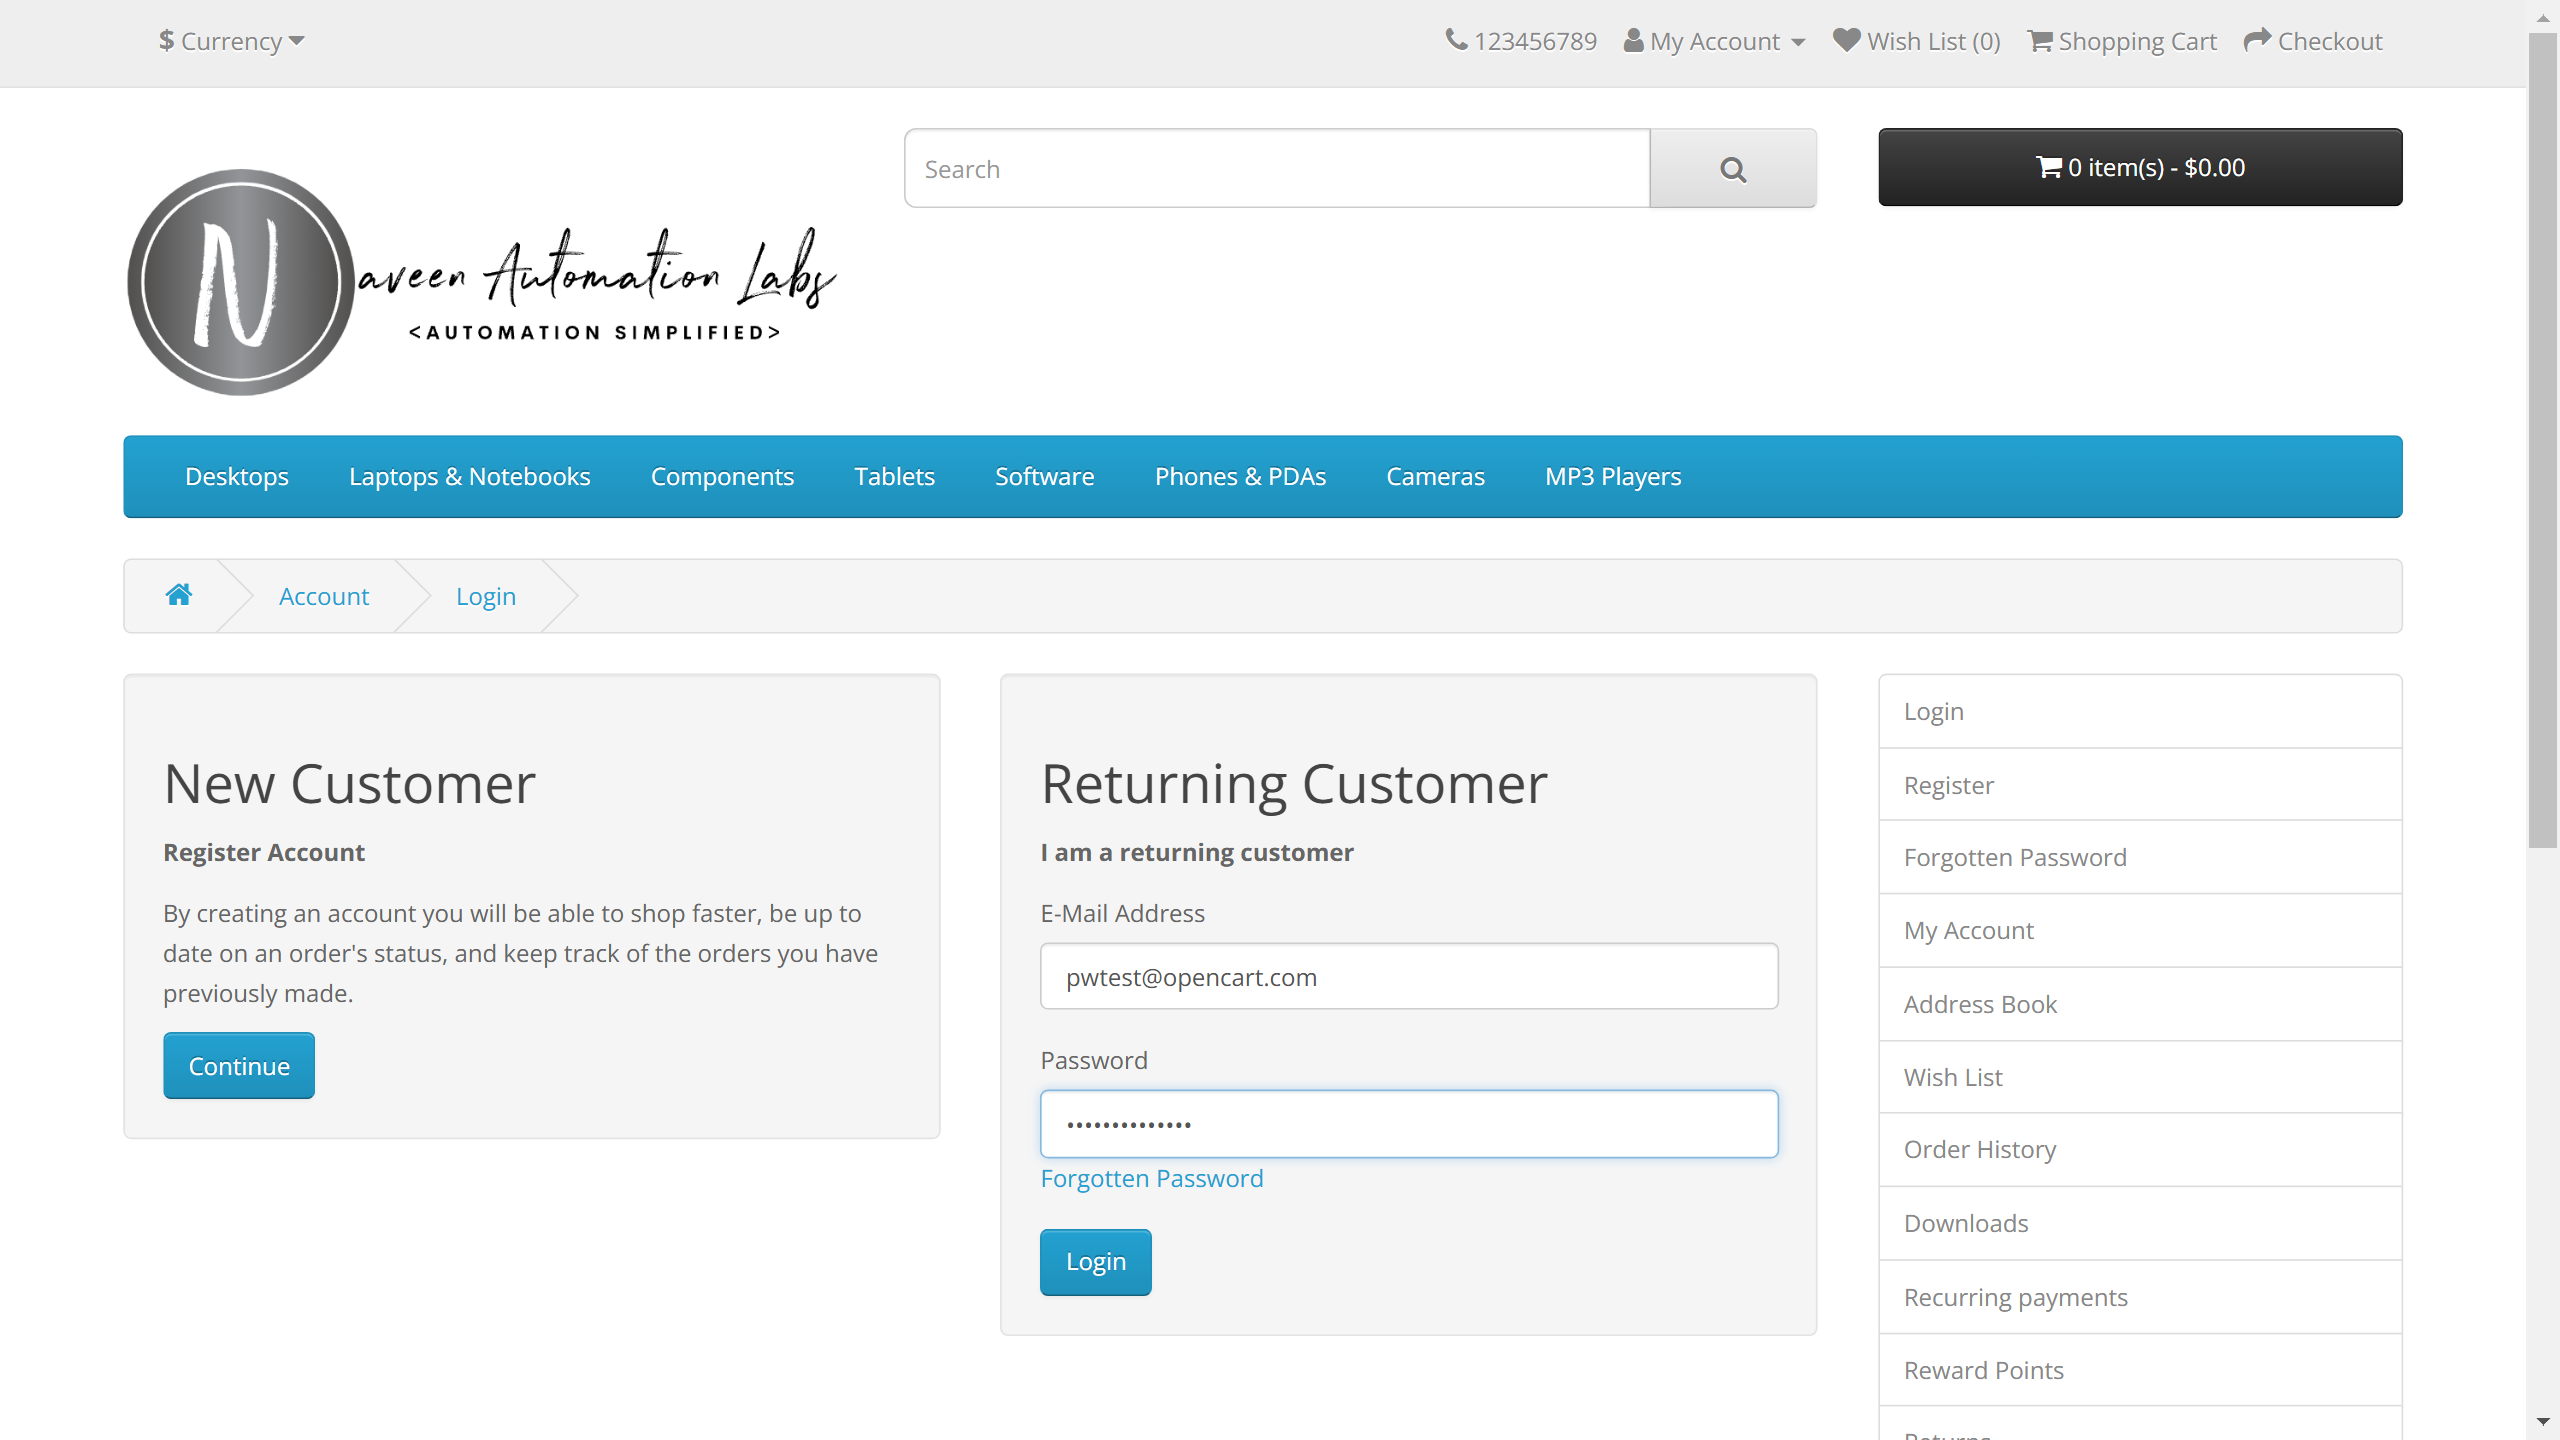
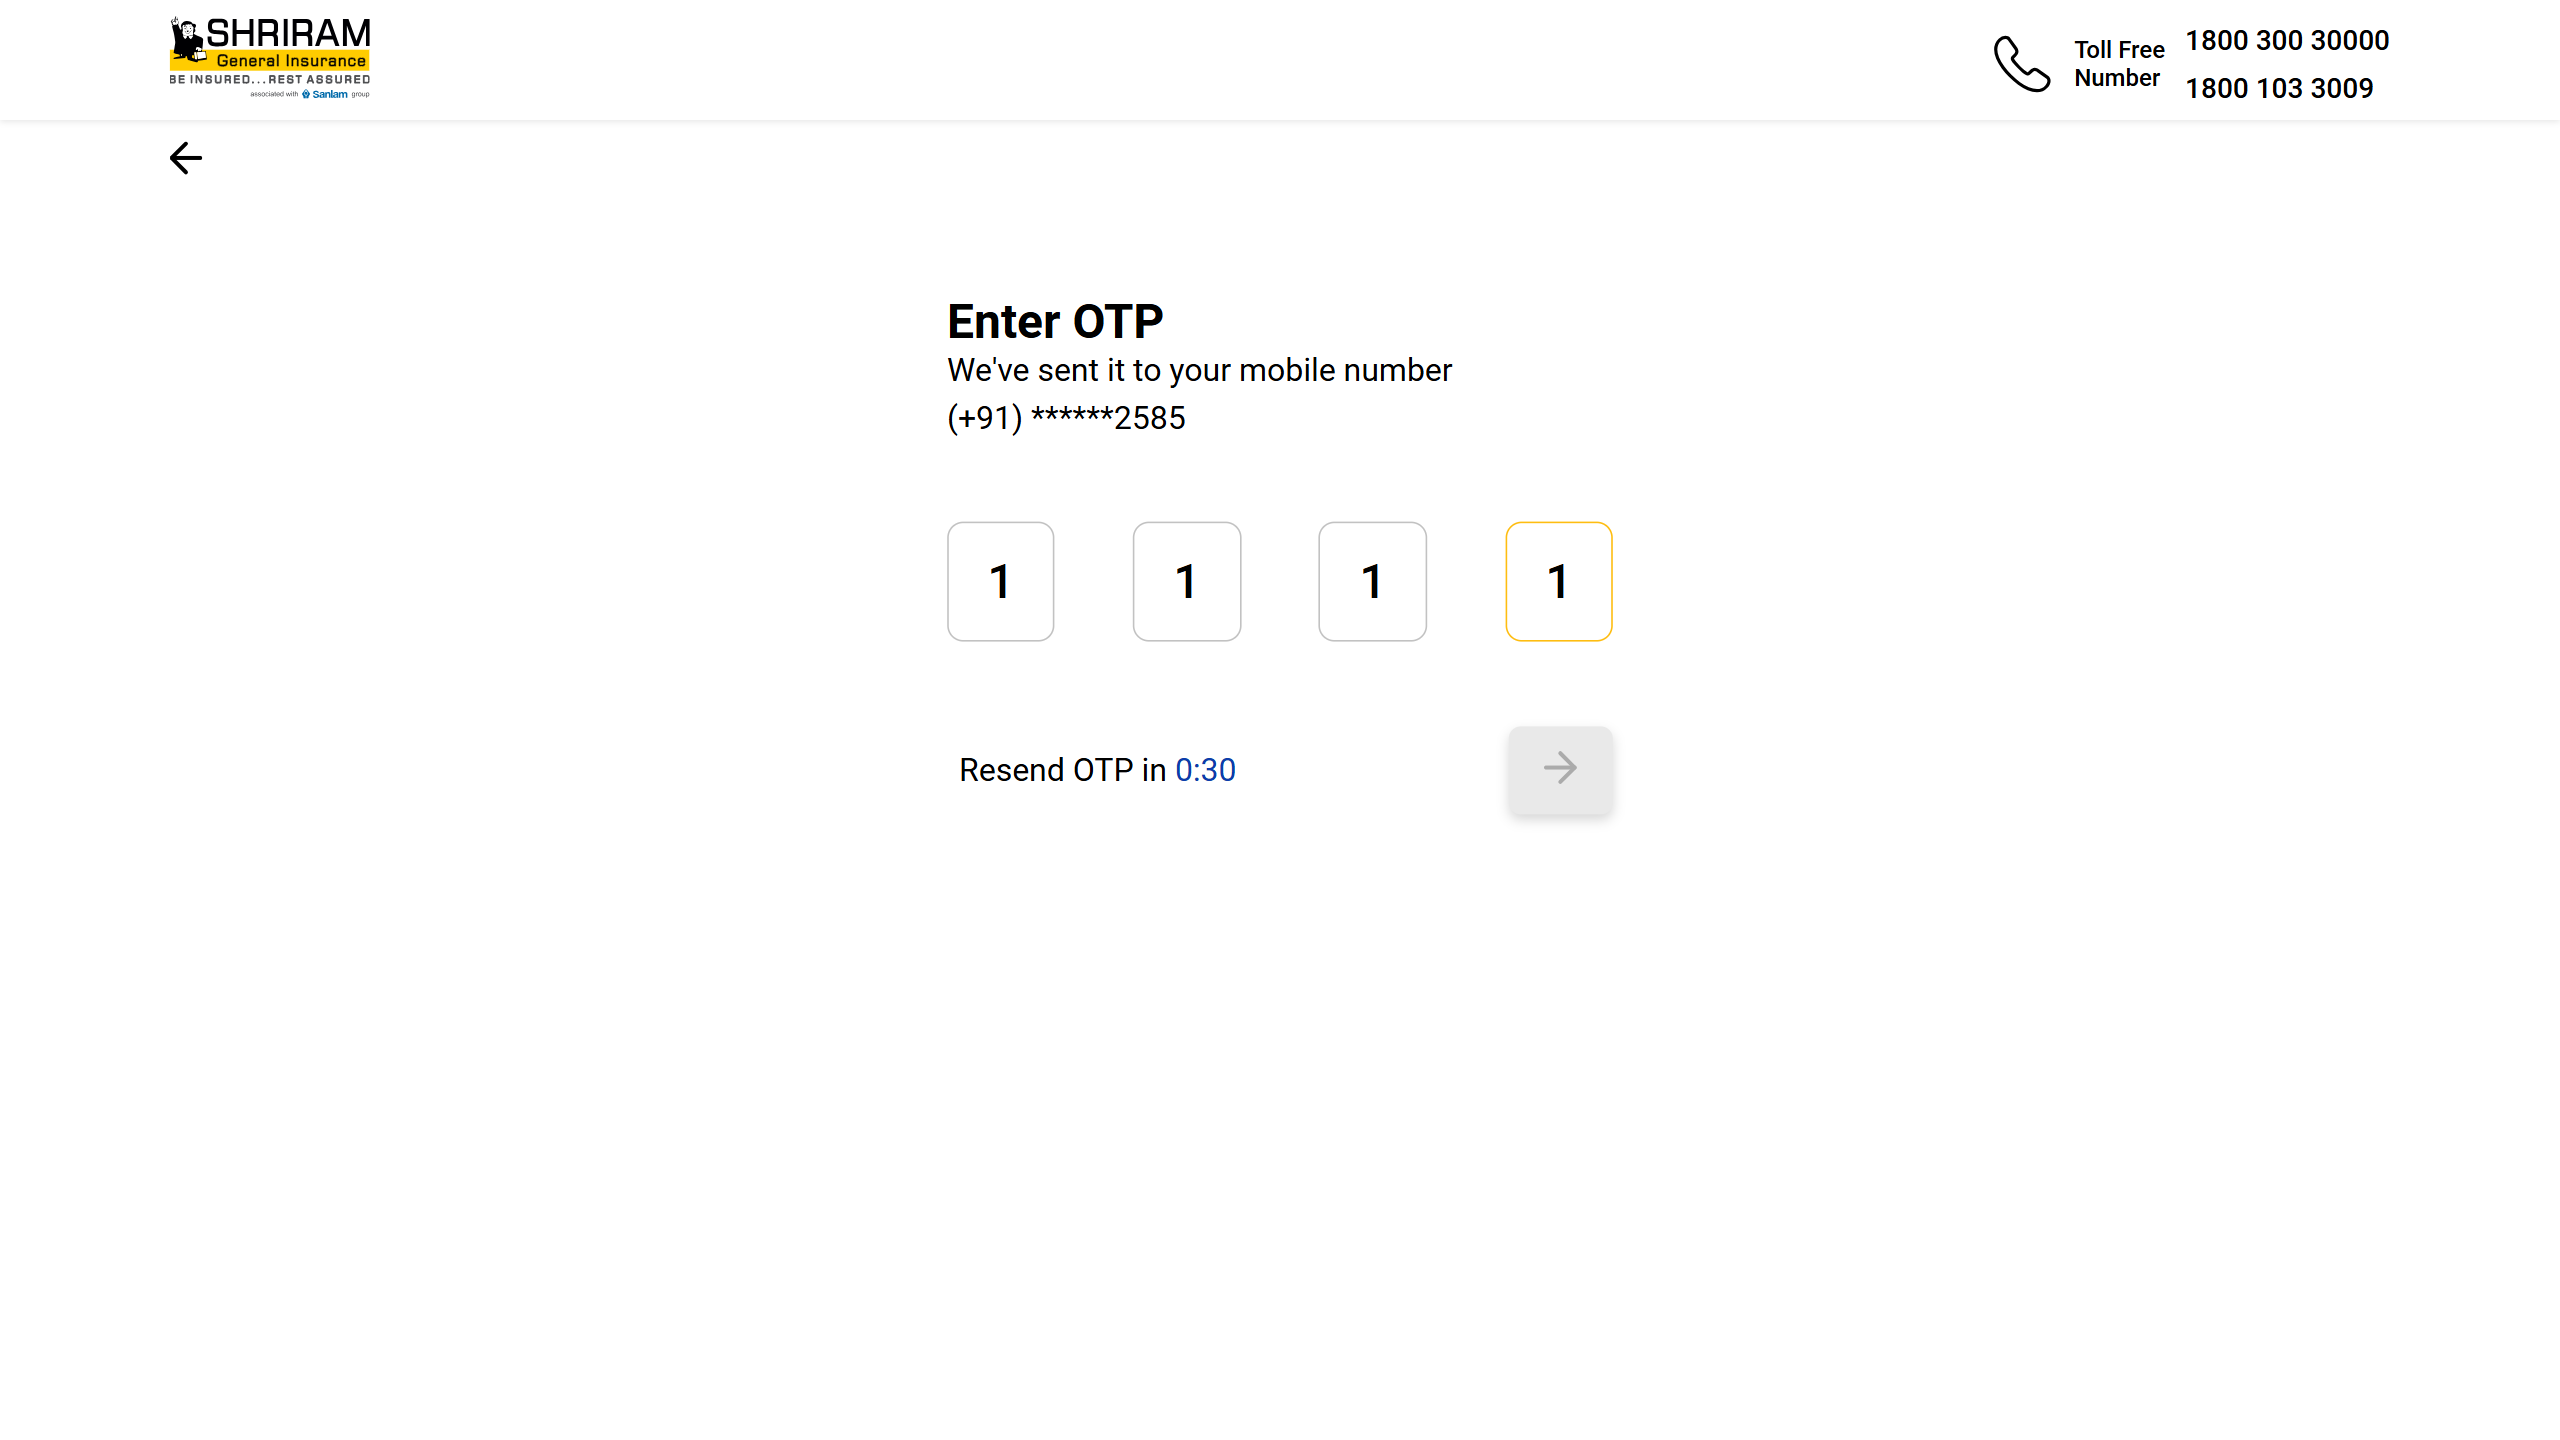
Updated July 21st

diff --git a/mytest/Dropdown.spec.ts b/mytest/Dropdown.spec.ts
@@ -2,44 +2,48 @@
 
 
 import {test, expect, Browser, Page, Locator} from '@playwright/test'
-import {log} from 'console';
 import {webkit, chromium, firefox} from 'playwright'
 
 
-test('Dropdown test', async() => {
+test('Static Dropdown test', async() => {
     const browser:Browser = await chromium.launch({headless: false});
     const page:Page = await browser.newPage();
-    await page.goto("https://www.magupdate.co.uk/magazine-subscription/PALI");
-
-
-    //await page.getByRole('radio', { : ' Request/Enquire'}).click();
-
-    const countryDropdown = 'select#Contact_CountryCode';
-
-   // await page.selectOption(countryDropdown,{ value : 'DE' }); //using value
-
-    //await page.selectOption(countryDropdown,{ label : 'Nepal' }); //using label
-
-    //await page.selectOption(countryDropdown,{ index : 45 }); //using index
-
-
-    //select#Contact_CountryCode>option
     
-    const allOptions = await page.$$(countryDropdown + '> Option');
+    await page.goto("https://rahulshettyacademy.com/dropdownsPractise/");
 
-    console.log((allOptions).length);
+    // Select option by value
+    const dropdownSelector = 'select#ctl00_mainContent_DropDownListCurrency'; 
+    //await page.selectOption(dropdownSelector, 'INR');
 
-    //to print all the 252 country
+    // Select option by label (visible text)
+    await page.selectOption(dropdownSelector, {label: 'INR'});
+
+    await page.check('#ctl00_mainContent_chk_friendsandfamily');
+    // Select option by index
+    //const options = await page.$$(`${dropdownSelector} > option`);
+    //const indexToSelect = 0; // zero-based index
+    //const valueAtIndex = await options[indexToSelect].getAttribute('value');
+    //await page.selectOption(dropdownSelector, valueAtIndex);
 
 
-    for(const e of allOptions){
-        const text = await e.textContent();
-        console.log(text);
-        if(text === 'India'){
-            await page.selectOption(countryDropdown,{ label : text });
-        }
-    }
+    //await new Promise (() => {});
+
+});
+
+
+test('Auto suggestive Dropdown', async() => {
+    const browser:Browser = await chromium.launch({headless: true, slowMo: 100});
+    const page:Page = await browser.newPage();
     
-    await page.waitForTimeout(5000);
+    await page.goto("https://rahulshettyacademy.com/dropdownsPractise/");
+
+    await page.fill('#autosuggest', 'IND');
+
+    await page.waitForSelector('.ui-menu-item');
+
+    await page.click('//li[@class="ui-menu-item"]/a[text()="India"]'); //Working
+
+    await browser.close();
+    //await new Promise (() => {});
 
 });

diff --git a/playwright.config.ts b/playwright.config.ts
@@ -12,40 +12,25 @@ import { defineConfig, devices } from '@playwright/test';
  * See https://playwright.dev/docs/test-configuration.
  */
 export default defineConfig({
-  testDir: './LetCodeWkousik',
+  testDir: './mytest',
   /* Run tests in files in parallel */
   fullyParallel: true,
   /* Fail the build on CI if you accidentally left test.only in the source code. */
   forbidOnly: !!process.env.CI,
-
   /* Retry on CI only */
-  //retries: process.env.CI ? 2 : 0,
-   
-
+  retries: process.env.CI ? 2 : 0,
   /* Opt out of parallel tests on CI. */
   workers: process.env.CI ? 1 : undefined,
   /* Reporter to use. See https://playwright.dev/docs/test-reporters */
-  //reporter: 'html',
-  
- reporter: [["dot"],["json", {
-  outputFile : "jsonReports/jsonReport.json"
-    }], ["html",{
-    open : "never"
-    }]],
-    
-    
+  reporter: 'html',
   /* Shared settings for all the projects below. See https://playwright.dev/docs/api/class-testoptions. */
-  use: {
-    headless : false,
-    
+  use: { 
     /* Base URL to use in actions like `await page.goto('/')`. */
-    // baseURL: 'http://127.0.0.1:3000',
+    // baseURL: 'http://localhost:3000',
 
     /* Collect trace when retrying the failed test. See https://playwright.dev/docs/trace-viewer */
     trace: 'on-first-retry',
   },
-  retries : 0,
-  
 
   /* Configure projects for major browsers */
   projects: [
@@ -88,8 +73,7 @@ export default defineConfig({
   /* Run your local dev server before starting the tests */
   // webServer: {
   //   command: 'npm run start',
-  //   url: 'http://127.0.0.1:3000',
+  //   url: 'http://localhost:3000',
   //   reuseExistingServer: !process.env.CI,
   // },
 });
-

diff --git a/mytest/Normalwindow.spec.ts b/mytest/Normalwindow.spec.ts
@@ -5,6 +5,11 @@
 import {test, expect, Browser, Page, Locator, BrowserContext} from '@playwright/test'
 import {webkit, chromium, firefox} from 'playwright'
 
+//reason to give async and wait
+
+//No of promises, No od Asynchronus APIs, no of Asynchronus of steps are there so we need to give those keywords.
+
+//Simple async and await are used to handle the Asynchronus Api and Asynchronus Calls.
 
 test('AIRA Role locators test', async() => {
     //const browser:BrowserContext = await chromium.launchPersistentContext('', {headless: false}); //chrome
@@ -18,6 +23,7 @@ test('AIRA Role locators test', async() => {
    
     await page.locator('id=input-firstname').fill("Pradeep");
     await page.locator('id=input-lastname').fill("Kumar");
+    await page.screenshot({path: `screenshot.png`});
 
 
 });

diff --git a/mytest/BrowserContext.spec.ts b/mytest/BrowserContext.spec.ts
@@ -9,7 +9,7 @@ test('login test', async() => {
     //BrowserContext 1
     //BrowserContext is nothing but no of copies pages can open without signout/logout.
     //BrowserContext nale incognito tha open aagum.
-
+    
     const browserContext_1 : BrowserContext = await browser.newContext(); 
     const page1:Page = await browserContext_1.newPage();
 
@@ -21,7 +21,7 @@ test('login test', async() => {
 
     //BrowserContext 2
     const browserContext_2 : BrowserContext = await browser.newContext(); 
-    const page2:Page = await browserContext_2.newPage();  //ajithkumar@gmail.com ajith@123
+    const page2:Page = await browserContext_2.newPage();  //ajithkumar@gmail.com ajith@123 ..
 
     await page2.goto("https://naveenautomationlabs.com/opencart/index.php?route=account/login");
 

diff --git a/mytest/Frame.spec.ts b/mytest/Frame.spec.ts
@@ -1,0 +1,25 @@
+import {test, expect, Browser, Page, Locator} from '@playwright/test'
+import {webkit, chromium, firefox} from 'playwright'
+
+test('Frame Test', async()=> {
+     test.setTimeout(60000);
+    const browser:Browser = await chromium.launch({headless:false});
+    const page:Page = await browser.newPage();
+    await page.goto("https://jqueryui.com/droppable/");
+
+    const frame = await page.frameLocator('iframe.demo-frame');
+    
+
+    const drag = frame.locator('#draggable');
+
+    const drop = frame.locator('#droppable');
+
+    await drag.dragTo(drop);
+
+    await page.getByText("Button").click();
+  
+   //await browser.close();
+    await new Promise (() => {});
+
+
+});

diff --git a/e2e/example.spec.ts b/e2e/example.spec.ts
@@ -1,0 +1,18 @@
+import { test, expect } from '@playwright/test';
+
+test('has title', async ({ page }) => {
+  await page.goto('https://playwright.dev/');
+
+  // Expect a title "to contain" a substring.
+  await expect(page).toHaveTitle(/Playwright/);
+});
+
+test('get started link', async ({ page }) => {
+  await page.goto('https://playwright.dev/');
+
+  // Click the get started link.
+  await page.getByRole('link', { name: 'Get started' }).click();
+
+  // Expects page to have a heading with the name of Installation.
+  await expect(page.getByRole('heading', { name: 'Installation' })).toBeVisible();
+});

diff --git a/mytest/CharacterDelay.spec.ts b/mytest/CharacterDelay.spec.ts
@@ -17,3 +17,29 @@ test('Double Click test', async() => {
     await page.waitForTimeout(5000);
 
 });
+
+
+test('New Tab', async()=> {
+
+    const browser:Browser = await chromium.launch({headless:false});
+    const context = await browser.newContext();
+    const page1:Page = await context.newPage();
+    const page2:Page = await context.newPage();
+
+    await page1.goto("https://playwright.dev/")
+
+    await page2.goto("https://stage.shriramgi.com/");
+
+   await page2.goBack();
+
+   const title = await page1.title();
+
+  console.log("Page 1 title is :", title);
+
+  
+
+
+
+
+
+});

diff --git a/mytest/MouseClick.spec.ts b/mytest/MouseClick.spec.ts
@@ -15,7 +15,12 @@ test('Double Click test', async() => {
     //double click in mouse
     await page.getByText('Double-Click Me To See Alert').dblclick();
 
-    await page.waitForTimeout(3000);
+    await page.waitForTimeout(3000); 
+
+    page.on('dialog', async (dialog) => {
+    console.log('Dialog message:', dialog.message());
+    await dialog.accept();
+  });
 
     //right click or context click
     await page.getByText('right click me').click({button: 'right'});

diff --git a/mytest/chainning locators.spec.ts b/mytest/chainning locators.spec.ts
@@ -10,7 +10,7 @@ test('chainning locators test', async() => {
     const browser:Browser = await firefox.launch({headless: false});
     const page:Page = await browser.newPage();
     //test.setTimeout(10000)
-    await page.goto("https://orangehrm.com/en/30-day-free-trial");
+    await page.goto("https://orangehrm.com/en/30-day-free-trial"); 
 
 /*     await page.locator('form#Form_getForm >> #Form_getForm_Name').fill("kumar");
 

diff --git a/mytest/Mouse Hover.spec.ts b/mytest/Mouse Hover.spec.ts
@@ -5,7 +5,7 @@ import {webkit, chromium, firefox} from 'playwright'
 
 
 test('Mouse hover test', async() => {
-    const browser:Browser = await firefox.launch({headless: false});
+    const browser:Browser = await webkit.launch({headless: false});
     const page:Page = await browser.newPage();
     //test.setTimeout(10000)
     await page.goto("https://www.spicejet.com/");

diff --git a/mytest/Login.spec.test.ts b/mytest/Login.spec.test.ts
@@ -15,7 +15,7 @@ test('login test', async() => {
     const title = await page.title();
     console.log("Home Page title", title);
 
-    await page.screenshot({path: 'homepage.png'});
+    await page.screenshot({path: 'homepage2.png'});
 
     expect(title).toEqual('Account Login');
 

diff --git a/mytest/Locators.spec.ts b/mytest/Locators.spec.ts
@@ -15,7 +15,7 @@ test('locators test', async() => {
 
     //1.ID - Unique
 
-    const firstName:Locator = page.locator('id=input-firstname');
+    const firstName:Locator = page.locator('#input-firstname');
     const lastName:Locator = page.locator('id=input-lastname');
 
 
